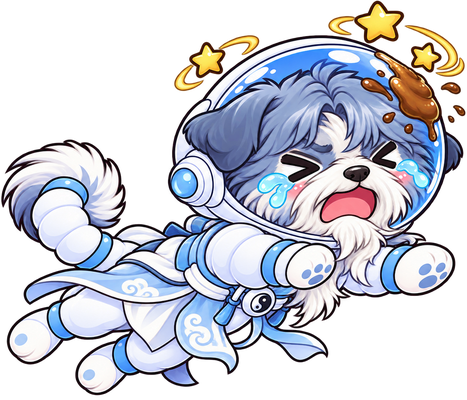
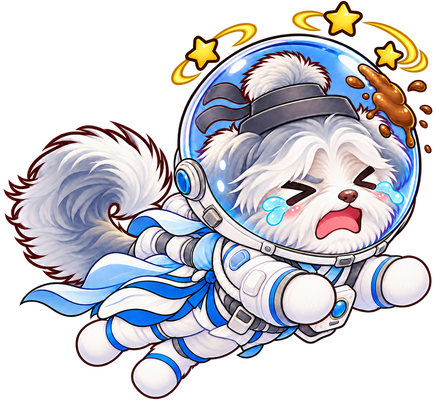
v0.9.71 우주 도도 — 둥근 우주 장갑·장화, 새 모자로 헤엄·맞은 그림 다시

diff --git a/index.html b/index.html
@@ -1797,7 +1797,7 @@
   const elTitle = document.getElementById("overTitle");
   const coinNote = document.getElementById("coinNote");
 
-  const GAME_VERSION = "v0.9.70";
+  const GAME_VERSION = "v0.9.71";
   /* 제작사 스플래시(bamhobak friends 로고) — 2026-09-20 끔. 다시 켜려면 true */
   const SPLASH_USE = false;   // 코드를 고칠 때마다 뒤 두 자리를 올린다
   document.getElementById("ver").textContent = GAME_VERSION;
@@ -2326,8 +2326,8 @@
     hurt:  { img: null, aspect: 1.3711, head: 0.3855, cx: 0.625, cy: 0.405, adj: 0.4987, lift: 0.098 }
   };
   const SPR_LEV_SPACE = {    // 도도(옛 소라) — 삽살개 도사 (v0.9.47, 예전 파피용)
-    right: { img: null, aspect: 1.1750, head: 0.420, cx: 0.750, cy: 0.460, adj: 0.4976, lift: 0.169, float: true },
-    hurt:  { img: null, aspect: 1.1675, head: 0.420, cx: 0.741, cy: 0.430, adj: 0.4996, lift: 0.153 }
+    right: { img: null, aspect: 1.1050, head: 0.420, cx: 0.760, cy: 0.420, adj: 0.5183, lift: 0.126, float: true },
+    hurt:  { img: null, aspect: 1.0875, head: 0.420, cx: 0.772, cy: 0.490, adj: 0.5054, lift: 0.214 }
   };
   const SPR_FIT_SPACE = {    // 버피 — 복서
     right: { img: null, aspect: 1.170, head: 0.374, cx: 0.656, cy: 0.386, adj: 0.5229, lift: -0.045, float: true },

diff --git a/README.md b/README.md
@@ -5,7 +5,7 @@
 👉 **플레이: https://bamhobak.github.io/ddongpi/**
 
 > 이 문서는 `index.html` 의 실제 값을 옮겨 적은 것입니다. 숫자를 고쳤으면 여기도 같이 고쳐 주세요.
-> 마지막으로 맞춰 본 판: **v0.9.70**
+> 마지막으로 맞춰 본 판: **v0.9.71**
 
 ## ⚔ 대전모드 (v0.8.24 한 폰 · v0.8.25 두 폰)
 시작하기를 누르면 **[방 만들기] · [방 참가](방 번호 4자리) · [한 폰으로 둘이서]** 를 고릅니다.
